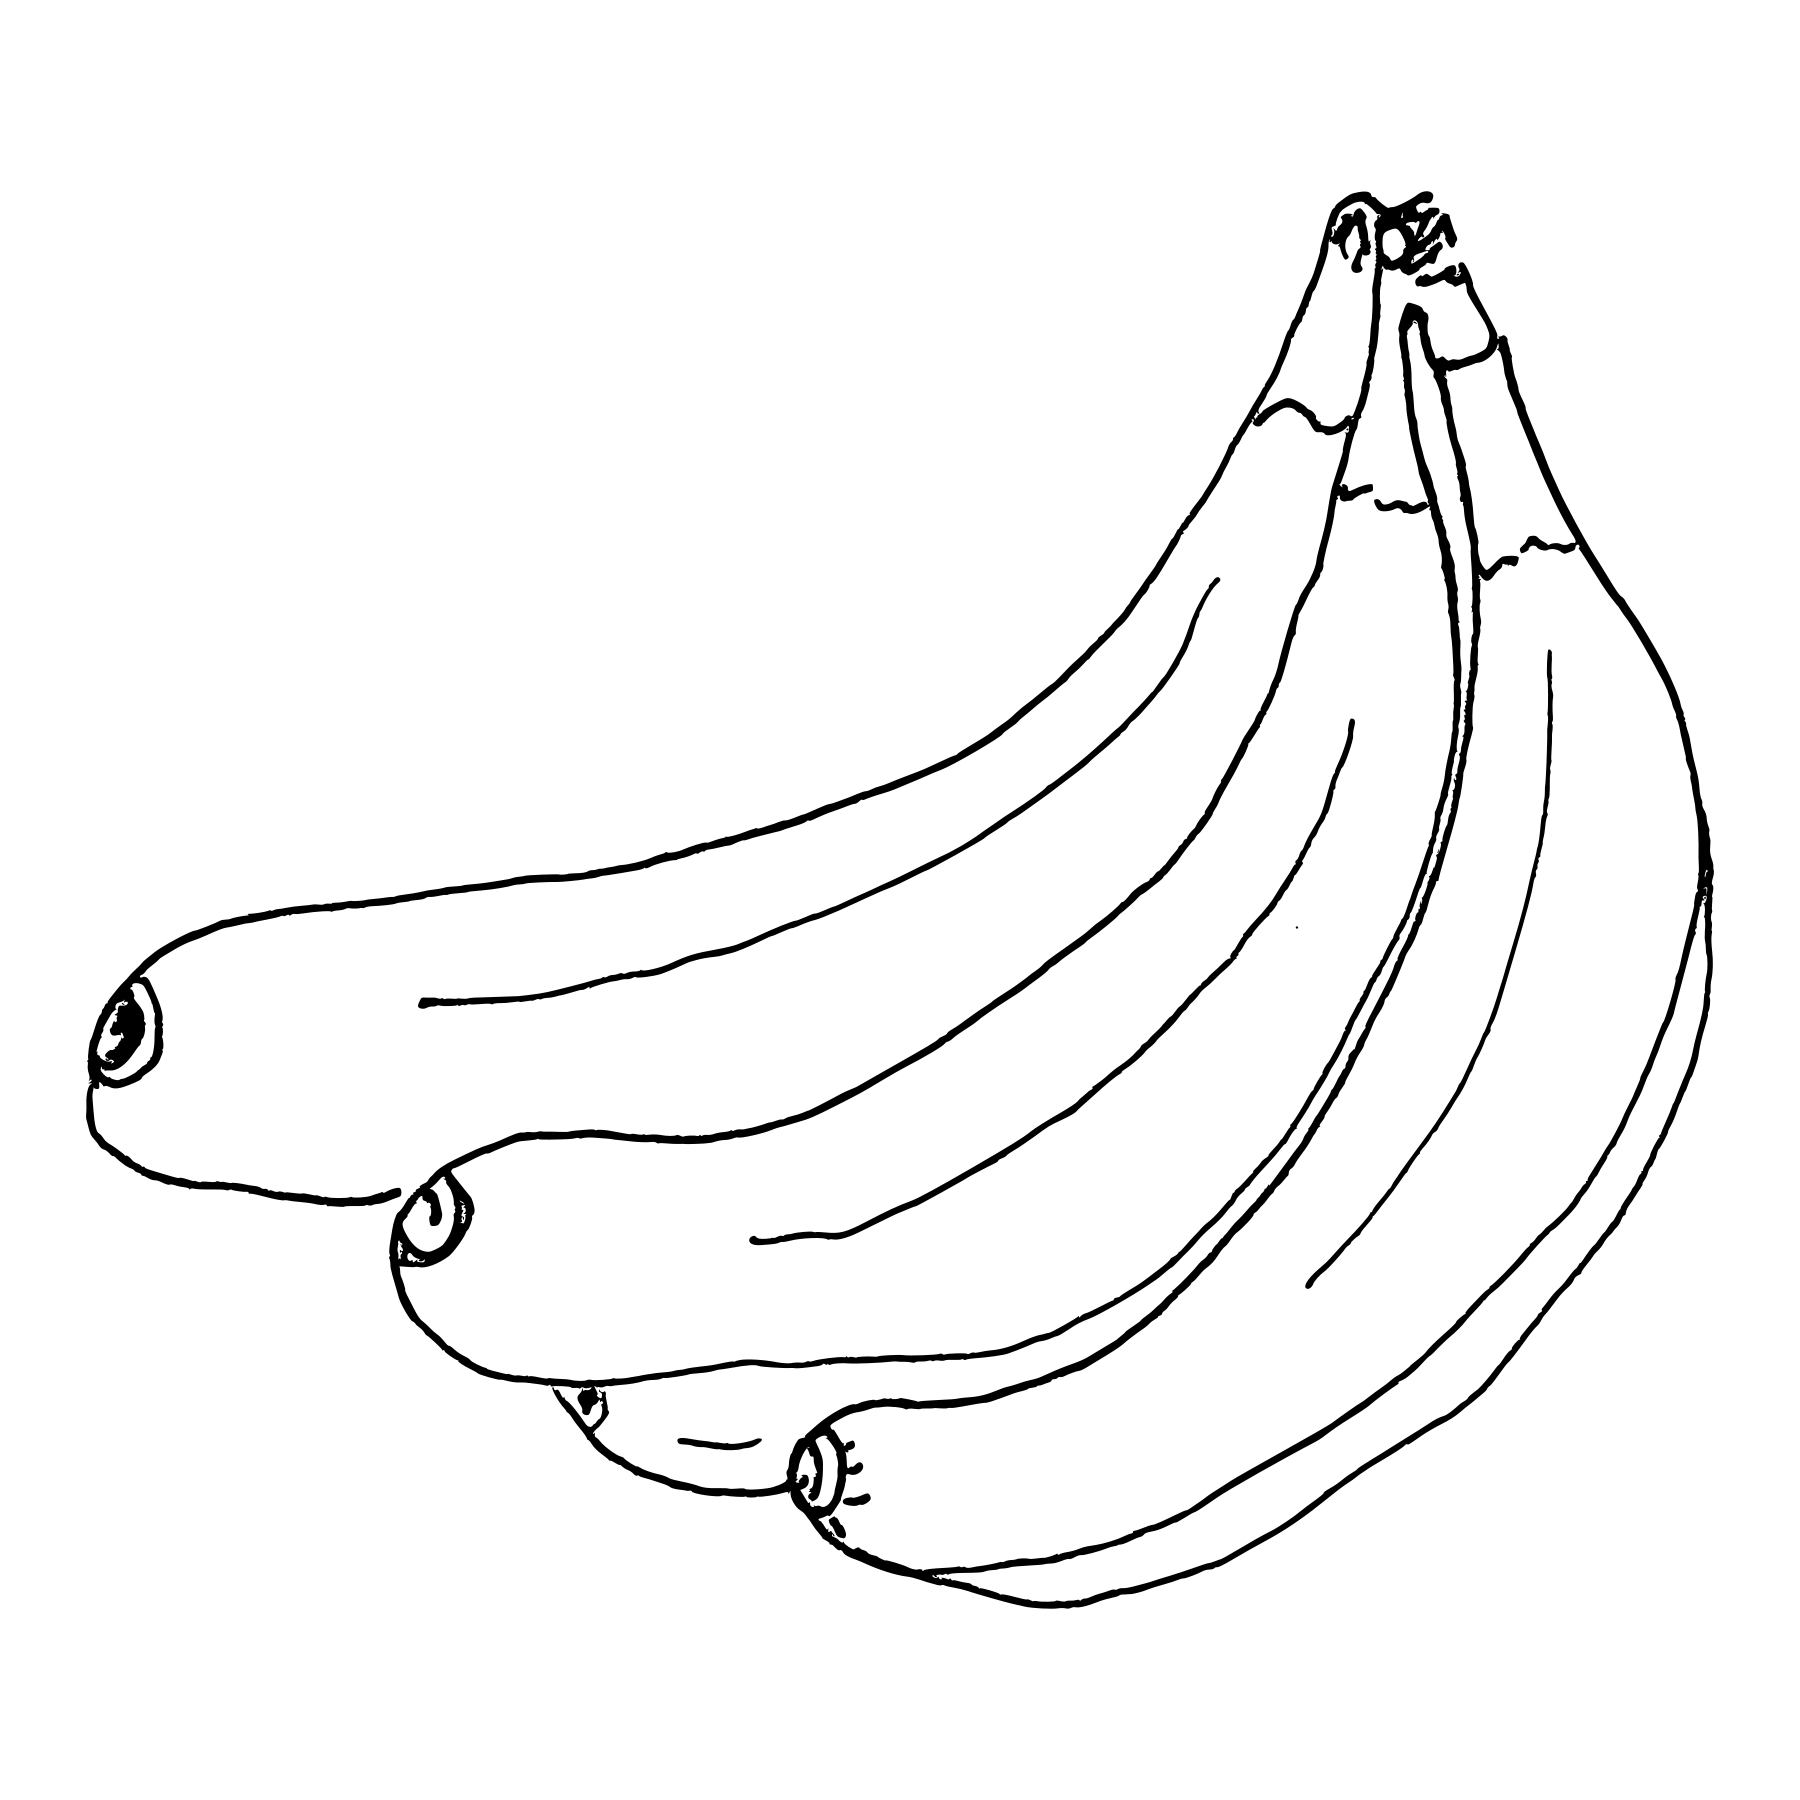
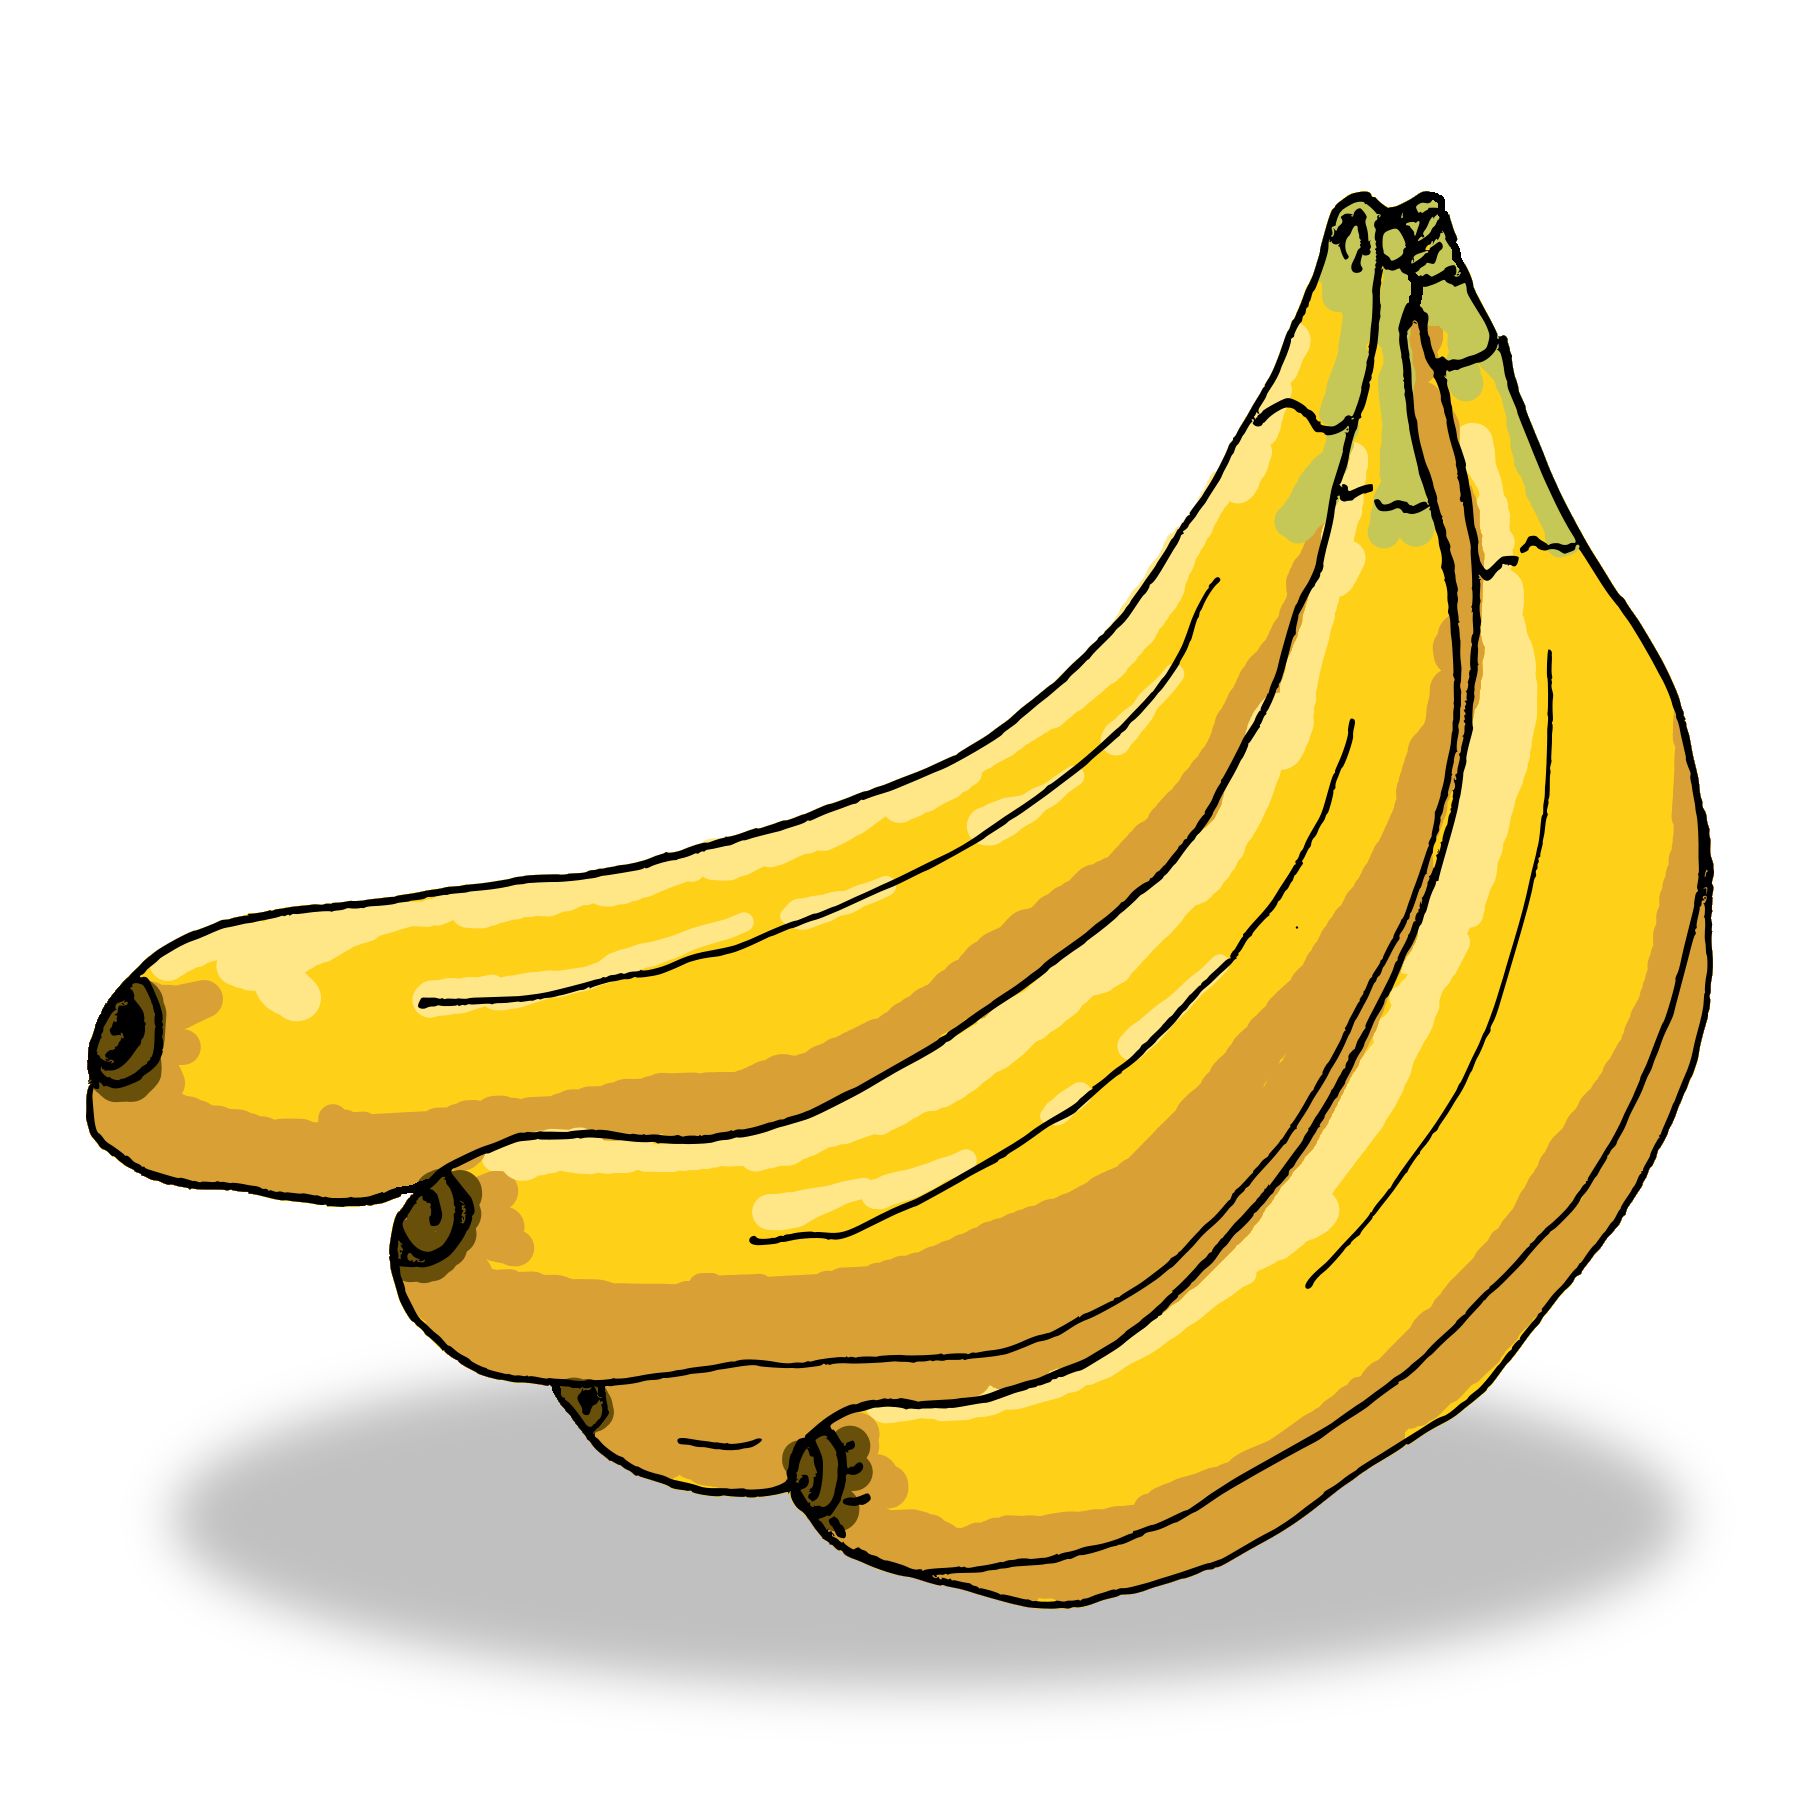
Platanito

diff --git a/ilustraciones/README.md b/ilustraciones/README.md
@@ -58,7 +58,7 @@ Contenido del repositorio:
 - [ ] Melón
 - [ ] Mora
 - [x] Nabo
-- [ ] Naranja
+- [ ] Naranja -> working... jEsuSdA
 - [ ] Nectarina
 - [ ] Papaya
 - [x] Patata
@@ -66,7 +66,7 @@ Contenido del repositorio:
 - [x] Pera -> working... alayzappala
 - [x] Pimiento
 - [ ] Piña -> working... jEsuSdA
-- [ ] Platano -> working... jEsuSdA
+- [x] Platano 
 - [x] Pomelo 
 - [x] Puerro
 - [x] Rábano
